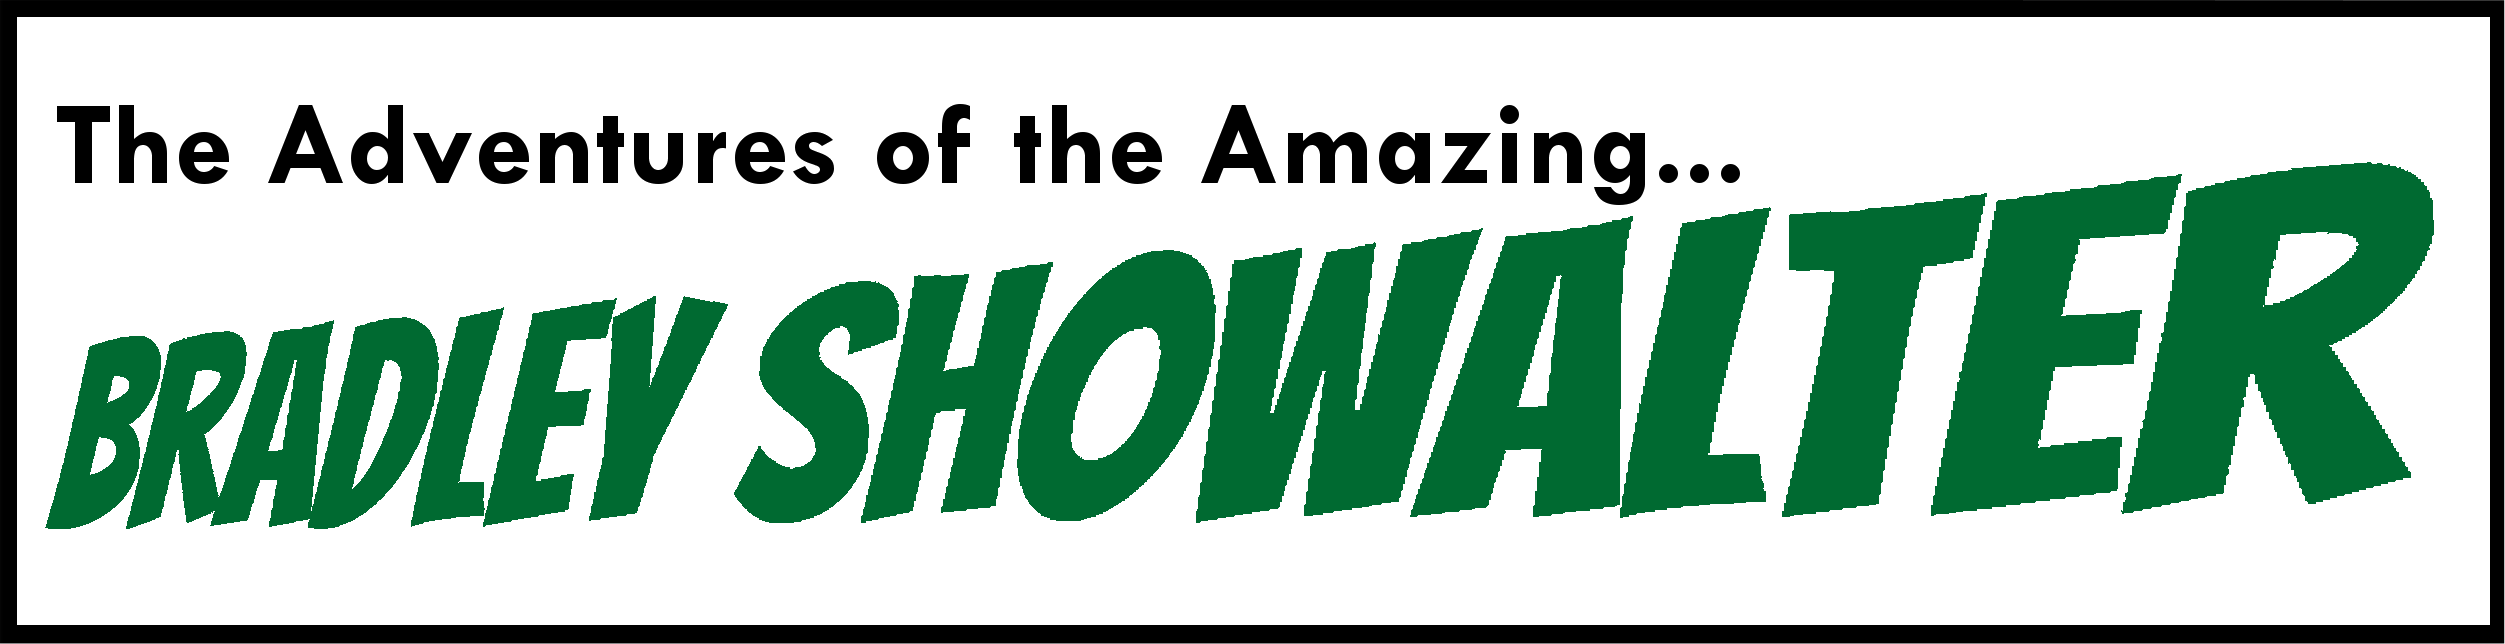
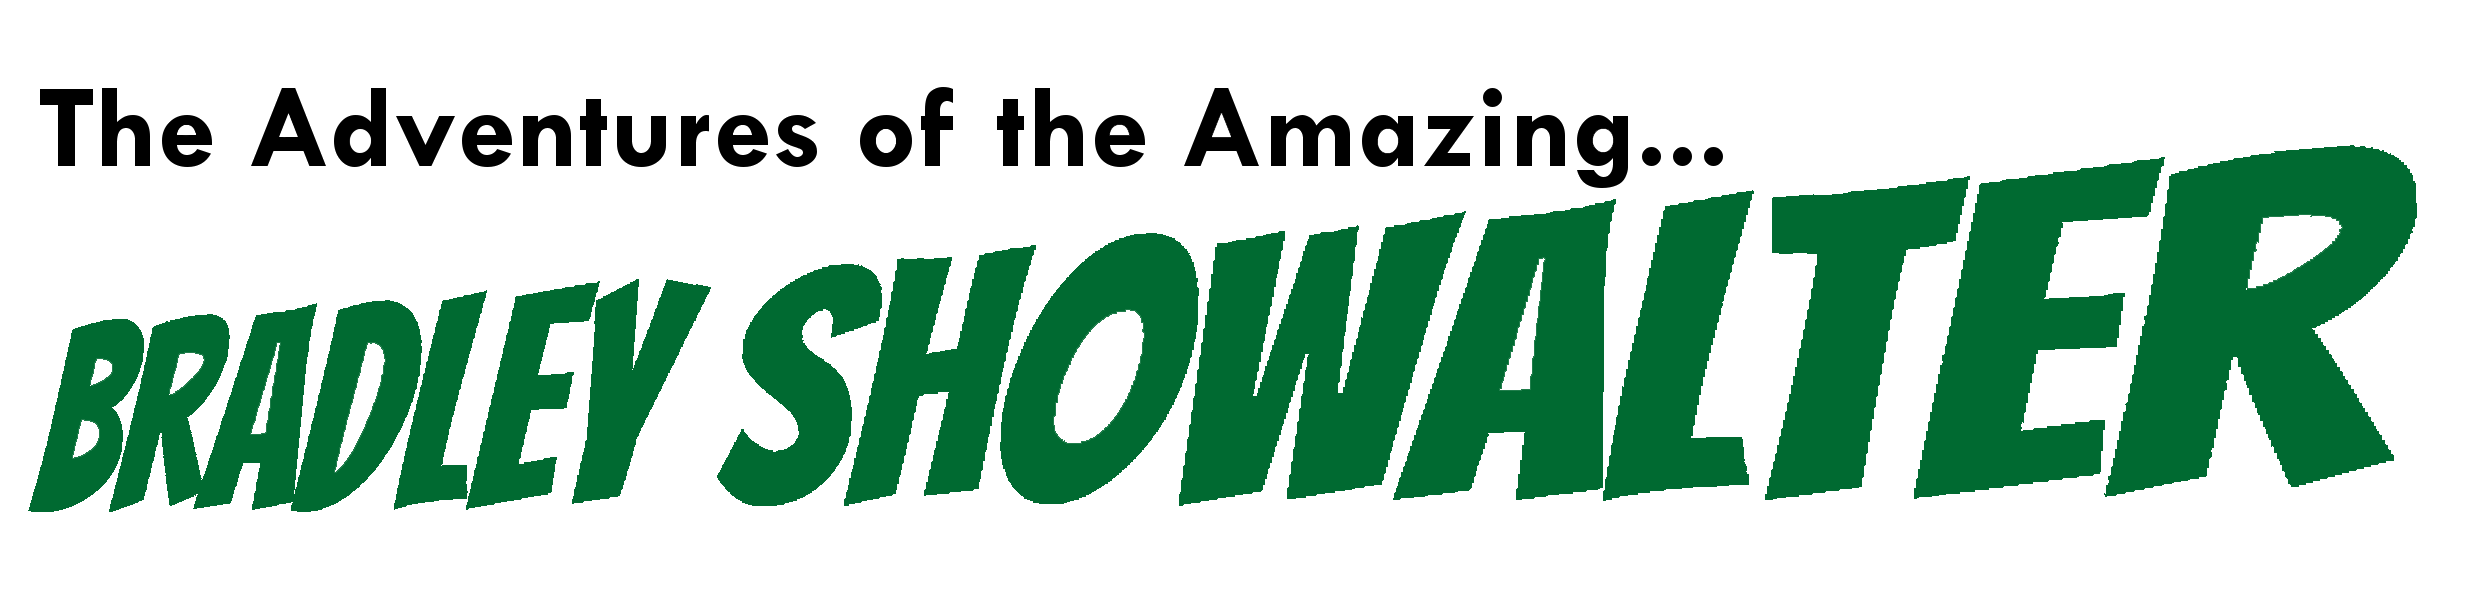
Fix header border

Changed region(s): [[0.0, 0.0, 1.0, 1.0], [0.4982, 0.375, 0.5605, 0.4062], [0.4359, 0.375, 0.467, 0.4062]]

diff --git a/public/script.js b/public/script.js
@@ -163,34 +163,14 @@ var projects = [
   ];
 
 var proj_imgs = function(i, flag) {
-  console.log('new src');
   var img = document.getElementById('modal_img_' + i);
   var src = img.getAttribute('src');
-  console.log(src);
-
-  //local
-  // var sub_str = 'file:///Users/bradley/Desktop/projects/personal/slyley07.github.io/public/images/projects/'
-
-  //online
   var sub_str = 'public/images/projects/';
-
-  //local
   var index = projects[i].images.indexOf(src.replace(sub_str, ''));
-
-
-  //online
-  // sub_str = 'public/images/projects/';
-  //
-  // console.log(sub_str);
-
-  //online
-  // var index = projects[i].images.indexOf(src);
-
 
   if (index + 1 === projects[i].images.length && flag === 'right') {
     img.src = sub_str + projects[i].images[0];
   } else if (index + 1 < projects[i].images.length && flag === 'right') {
-
     img.src = sub_str + projects[i].images[index + 1];
   } else if (index - 1 === -1 && flag === 'left') {
     img.src = sub_str + projects[i].images[projects[i].images.length - 1];

diff --git a/public/master.css b/public/master.css
@@ -16,6 +16,9 @@ body {
     color: #000000;
     text-decoration: underline; }
 
+.title {
+  border: 7px solid black; }
+
 .pointer {
   cursor: pointer; }
 

diff --git a/public/style.scss b/public/style.scss
@@ -24,6 +24,10 @@ body {
   }
 }
 
+.title {
+  border: $comic-border;
+}
+
 .pointer {
   cursor: pointer;
 }
